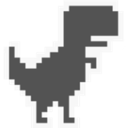
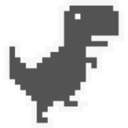
changed animation system

diff --git a/js/Player.js b/js/Player.js
@@ -1,9 +1,9 @@
 class Player {
-  constructor(maxSpeed, jumpStrength, floorY) {
+  constructor(maxSpeed, jumpStrength, floorY, animations) {
     this.floorY = floorY;
     this.x = 0;
     this.y = this.floorY;
-    this.speed = 0;
+    this.speed = 1;
     this.maxSpeed = maxSpeed;
     this.globalSpeed = 1;
     this.onGround = false;
@@ -11,6 +11,10 @@ class Player {
     this.vy = 0;
     this.maxLandLag = 50;
     this.landLag = this.maxLandLag;
+
+    this.animations = animations;
+    this.animationCounter = 0;
+    this.maxAnimationCounter = this.animations.length;
   }
   setGlobalSpeed(speed) {
     this.globalSpeed = speed;
@@ -31,7 +35,20 @@ class Player {
     }
     fill(255, 0, 0);
     rect(showX, this.y, 50, -50);
+
+    image(
+      this.animations[Math.floor(this.animationCounter)],
+      showX,
+      this.y,
+      50,
+      -50
+    );
     this.run();
+
+    this.animationCounter += (this.speed + this.globalSpeed) * 0.08;
+    if (this.animationCounter > this.maxAnimationCounter) {
+      this.animationCounter = 0;
+    }
   }
   jump() {
     if (this.onGround) {
@@ -59,7 +76,7 @@ class Player {
     } else {
       this.y += this.vy;
       this.onGround = false;
-      this.addVelDown(3);
+      this.addVelDown(this.jumpStrength / 20);
     }
     if (this.landLag < this.maxLandLag) {
       this.landLag++;

diff --git a/client/sketch.js b/client/sketch.js
@@ -1,18 +1,27 @@
 //Client side sketch
 
 var myCanvas;
+
 var mainPlayer;
 var floorY = 500;
+var playerAnimations = [];
 
 var scoreElement = document.getElementById("score");
 var distanceElement = document.getElementById("distance");
+
+function preload() {
+  for (let i = 0; i < 3; i++) {
+    playerAnimations.push(loadImage(`../images/frame_${i}.png`));
+    console.log(`../images/frame_${i}.png`);
+  }
+}
 
 function setup() {
   myCanvas = createCanvas(innerWidth, innerHeight);
   myCanvas.parent("mainSketch");
   background(0);
 
-  mainPlayer = new Player(10, 20, floorY);
+  mainPlayer = new Player(10, 50, floorY, playerAnimations);
 }
 
 function draw() {
@@ -22,7 +31,7 @@ function draw() {
   if (keyIsDown(32)) {
     mainPlayer.jump();
   }
-  scoreElement.write(frameCount);
+  //   scoreElement.write(frameCount);
 }
 
 function drawGround() {
